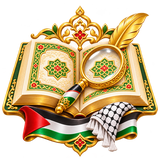
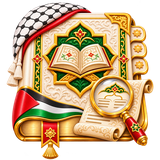
Palestine art for Adhkar, Ramadan, Shahada, Tafsir and Tajweed
Adhkar, Ramadan and Shahada had none, so those three cards had been
showing the Islamic theme's art in both themes. Tafsir and Tajweed
already had drawings and these replace them.

Ramadan is entered twice, as the library card and as 'Ramadan Guide'
in the worship guides, because the two have always shared one drawing
and splitting them now would leave the guide on the old art.

Two notes on the files as they arrived.

The Shahada pair was named the wrong way round: the file called
shahada.png is the dark drawing and shahada-dark.png the light one,
the reverse of every other pair. They are installed by what the
picture is rather than by what it was called, so the light drawing
goes to the light theme and the dark to the dark theme.

The Adhkar pair, like the Hadith pair before it, are the same file
supplied twice, and it is the light drawing. The dark slot therefore
holds the light drawing for now; the correct file drops in with no
code change once it arrives.

diff --git a/App.tsx b/App.tsx
@@ -1323,6 +1323,13 @@ const TOOL_IMAGES_PALESTINE: Record<string, any> = {
   'Prophet Names': require('./assets/tool-icons/prophet-names-palestine.png'),
   '99 Names': require('./assets/tool-icons/99-names-of-allah-palestine.png'),
   Names: require('./assets/tool-icons/99-names-of-allah-palestine.png'),
+  /* Adhkar, Ramadan and Shahada. Ramadan is asked for under two keys: the
+     library card, and 'Ramadan Guide' in the worship guides, which has
+     always shared the one drawing with it. */
+  Adhkar: require('./assets/tool-icons/adhkar-palestine.png'),
+  Ramadan: require('./assets/tool-icons/ramadan-palestine.png'),
+  'Ramadan Guide': require('./assets/tool-icons/ramadan-palestine.png'),
+  Shahada: require('./assets/tool-icons/shahada-palestine.png'),
 };
 const TOOL_IMAGES_PALESTINE_DARK: Record<string, any> = {
   Vocab: require('./assets/tool-icons/vocab-dark-palestine.png'),
@@ -1341,6 +1348,10 @@ const TOOL_IMAGES_PALESTINE_DARK: Record<string, any> = {
   'Prophet Names': require('./assets/tool-icons/prophet-names-dark-palestine.png'),
   '99 Names': require('./assets/tool-icons/99-names-of-allah-dark-palestine.png'),
   Names: require('./assets/tool-icons/99-names-of-allah-dark-palestine.png'),
+  Adhkar: require('./assets/tool-icons/adhkar-dark-palestine.png'),
+  Ramadan: require('./assets/tool-icons/ramadan-dark-palestine.png'),
+  'Ramadan Guide': require('./assets/tool-icons/ramadan-dark-palestine.png'),
+  Shahada: require('./assets/tool-icons/shahada-dark-palestine.png'),
 };
 function ToolGraphic({tool,size=64}:{tool:string;size?:number}){const{dark,resolved}=useTheme();
   /* By theme, the way the prayer icons are: a theme carries its lightness with
